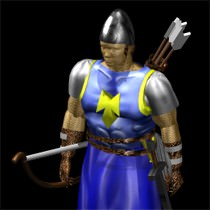
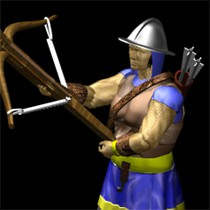
nuevo icono Arquero, handler para boton inicio interfaz

diff --git a/src/interfaz/Interfaz.java b/src/interfaz/Interfaz.java
@@ -8,14 +8,11 @@ import javafx.scene.layout.Pane;
 import javafx.stage.Stage;
 import javafx.stage.StageStyle;
 
-import java.io.IOException;
-
 public class Interfaz extends Application {
 
     AlgoEmpires juego;
 
     private Scene escenaDeInicio;
-    private Scene escenaPartida;
 
     public static void main(String[] args) {
         launch(args);
@@ -44,49 +41,9 @@ public class Interfaz extends Application {
 
         primaryStage.show();
 
+        BotonInicioHandler handlerInicio = new BotonInicioHandler(primaryStage, controlador);
 
-
-        controlador.getBotonInicio().setOnMouseClicked(event -> {
-
-            this.juego = controlador.crearJuego();
-
-            FXMLLoader loader = new FXMLLoader(getClass().getResource("VistaPartida.fxml"));
-
-            try {
-
-                Pane pane = loader.load();
-
-                VistaPartidaController controladorJuego = loader.getController();
-
-                controladorJuego.setJuego(juego);
-
-                escenaPartida = new Scene(pane);
-
-                escenaPartida.setOnKeyPressed(event1 -> {
-                    switch (event1.getCode()) {
-                        case UP:
-                            controladorJuego.renderizarArriba();
-                            break;
-                        case DOWN:
-                            controladorJuego.renderizarAbajo();
-                            break;
-                        case LEFT:
-                            controladorJuego.renderizarIzquierda();
-                            break;
-                        case RIGHT:
-                            controladorJuego.renderizarDerecha();
-                            break;
-                    }
-                });
-
-                primaryStage.setScene(escenaPartida);
-
-                controladorJuego.crearCasilleros();
-
-            } catch (IOException e) {
-                e.printStackTrace();
-            }
-        });
+        controlador.getBotonInicio().setOnMouseClicked(handlerInicio);
     }
 
 }

diff --git a/src/interfaz/BotonInicioHandler.java b/src/interfaz/BotonInicioHandler.java
@@ -1,0 +1,68 @@
+package interfaz;
+
+
+import algoempires.AlgoEmpires;
+import javafx.event.EventHandler;
+import javafx.fxml.FXMLLoader;
+import javafx.scene.Scene;
+import javafx.scene.input.MouseEvent;
+import javafx.scene.layout.Pane;
+import javafx.stage.Stage;
+
+import java.io.IOException;
+
+public class BotonInicioHandler implements EventHandler<MouseEvent> {
+
+    private final PantallaInicioController controladorActual;
+    private final Stage primaryStage;
+
+
+    public BotonInicioHandler(Stage stage, PantallaInicioController controladorActual) {
+        this.primaryStage = stage;
+        this.controladorActual = controladorActual;
+    }
+
+
+    @Override
+    public void handle(MouseEvent event) {
+
+        AlgoEmpires modelo = controladorActual.crearModelo();
+
+        FXMLLoader loader = new FXMLLoader(getClass().getResource("VistaPartida.fxml"));
+
+        try {
+
+            Pane pane = loader.load();
+
+            VistaPartidaController controladorJuego = loader.getController();
+
+            controladorJuego.setJuego(modelo);
+
+            Scene escenaPartida = new Scene(pane);
+
+            escenaPartida.setOnKeyPressed(event1 -> {
+                switch (event1.getCode()) {
+                    case UP:
+                        controladorJuego.renderizarArriba();
+                        break;
+                    case DOWN:
+                        controladorJuego.renderizarAbajo();
+                        break;
+                    case LEFT:
+                        controladorJuego.renderizarIzquierda();
+                        break;
+                    case RIGHT:
+                        controladorJuego.renderizarDerecha();
+                        break;
+                }
+            });
+
+            primaryStage.setScene(escenaPartida);
+
+            controladorJuego.crearCasilleros();
+
+        } catch (IOException e) {
+            e.printStackTrace();
+        }
+    }
+}

diff --git a/src/interfaz/PantallaInicioController.java b/src/interfaz/PantallaInicioController.java
@@ -39,7 +39,7 @@ public class PantallaInicioController {
     }
 
 
-    AlgoEmpires crearJuego() {
+    AlgoEmpires crearModelo() {
 
         String tamH = textoTamHorizontal.getText();
         String tamV = textoTamVertical.getText();
